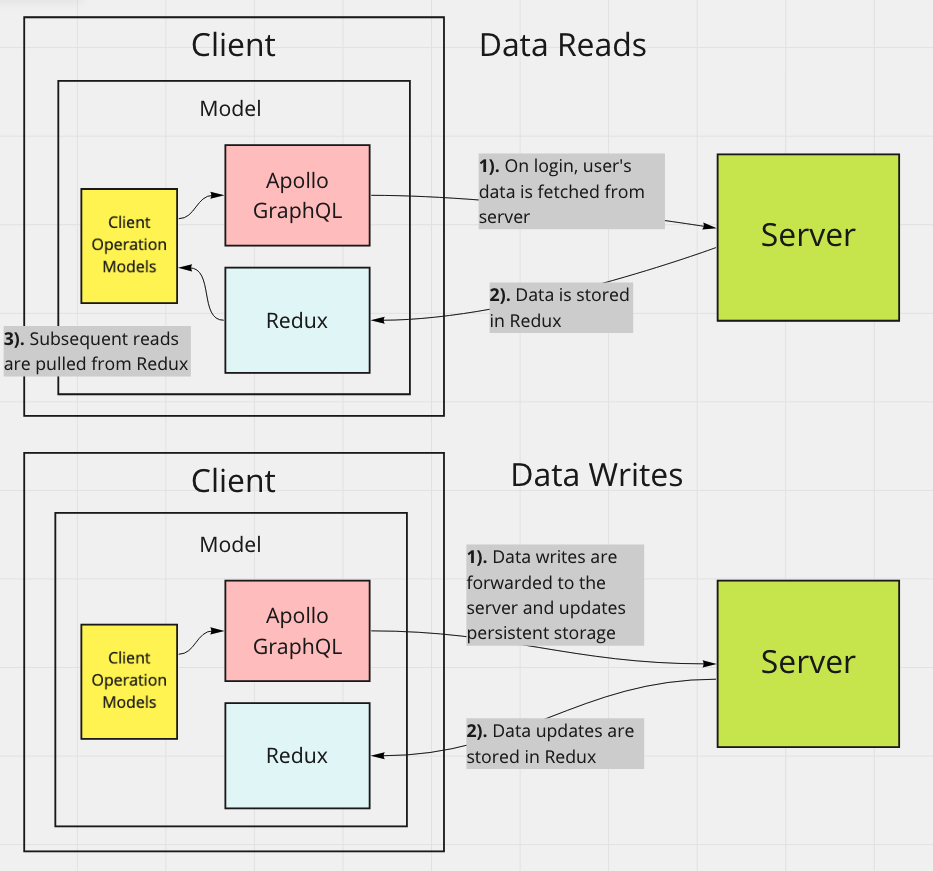
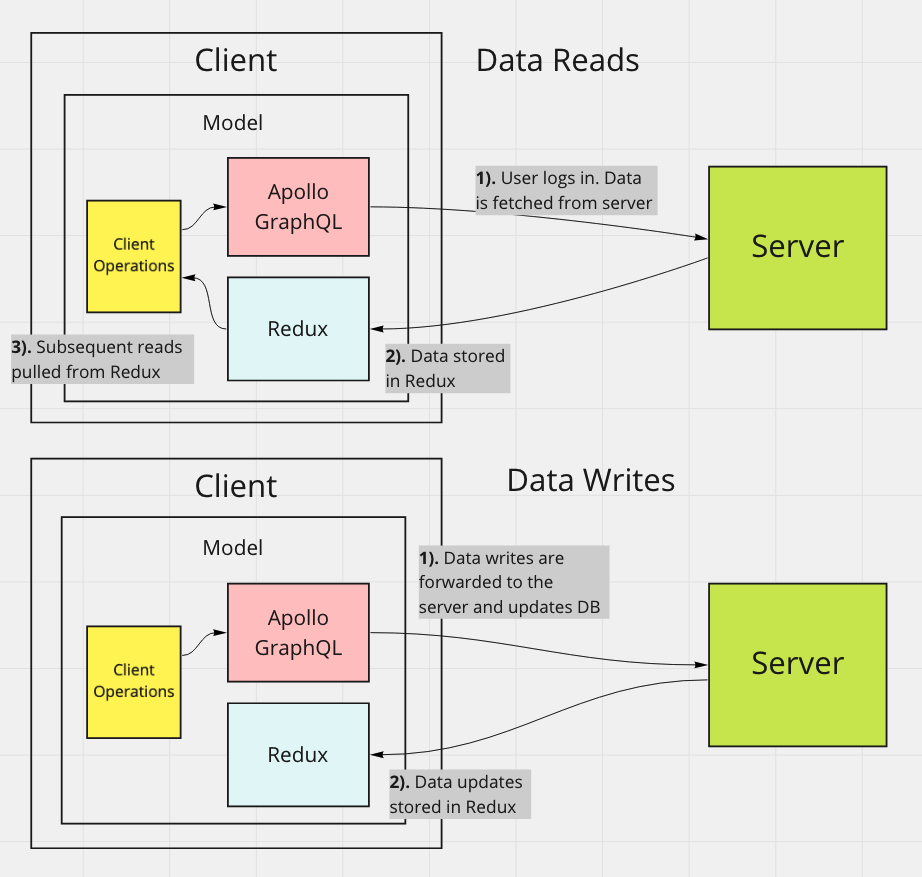
Tightens readme language

diff --git a/README.md b/README.md
@@ -36,9 +36,9 @@ The app uses Apollo GraphQL for the API layer while maintaining a local data cac
 
 <br>
 
-Handled data persistence with Apollo GraphQL and maintained a local cache of user's data with Redux for data reads.
+Handled data persistence with Apollo GraphQL and maintained a local cache of user data in Redux for data reads.
 - Nearly instantaneous performance for data reads.
-- Decreased load on the server.
+- Decreased load on the server based on app use.
 
 <br>
 
@@ -46,7 +46,10 @@ Handled data persistence with Apollo GraphQL and maintained a local cache of use
 
 ![Workout app Architecture](./readme-assets/client-data-strategy.png)
 
-Relying on Redux for data reads was a good fit for this app. User's read their own data and do not interact with other users. For future implementations, I would like to add a social component and use Redis for strategically caching shared data among users.
+### Reflections
+A Redux cache was a good fit for this app. Users read only their own data removing the risk of being out of sync. For the future, I would like to add a social component using Redis for caching shared data among users.
+
+Apollo GraphQL offers caching and keeping a Redux cache was not needed. I chose to use Redux to practice coordinating the two data stores and allow for optimistic updates in the future.
 
 </details>
 
@@ -59,7 +62,9 @@ Relying on Redux for data reads was a good fit for this app. User's read their o
 
 <br>
 
-Created separate abstractions for data and component UI, mimicking MVC architecture. Container components manage high level coordination of page tasks. Model layers handle implementation details of working with data.
+Created separate abstractions for data and component UI, mimicking MVC.
+- **Container components** - manage high-level coordination of page tasks.
+- **Model layers** - handle implementation details of working with data.
 
 <br>
 
@@ -69,21 +74,21 @@ Created separate abstractions for data and component UI, mimicking MVC architect
 
 #### Redux and GraphQL Models
 - Abstracts away vendor specific code for Apollo GraphQL and Redux
-- Houses client-side error handling for GraphQL queries and mutations
+- Houses client-side error handling for Apollo GraphQL
 - Uses React Hooks
 
 #### Client Operations Models
-- Manages implementation details of communication between GraphQL and Redux
+- Manages implementation details of communicating between GraphQL and Redux
 - Presents high level operations to the controllers
 - Uses React Hooks
 
 #### Container Components (Controllers)
-- Retrieves data from the URL
+- Retrieves data from URL
 - Calls model methods for setting and retrieving data
 - Manages local component state
 - Handles events
 - Handles redirects
-- Pulls in UI and passing data
+- Pulls in UI and passes data
 
 #### Presentation Components (View)
 - Presents the data and styled UI
@@ -92,7 +97,7 @@ Created separate abstractions for data and component UI, mimicking MVC architect
 
 #### Code Example
 
-The CreateWorkout container
+#### Create Workout container component / controller
 
 [See full code - right click to open in new tab](https://github.com/msolorio/workout_app_client/blob/main/src/pages/ShowWorkout/index.tsx)
 ```typescript
@@ -123,8 +128,8 @@ function CreateWorkout(): JSX.Element {
 ```
 
 ---
-
-`useCreateWorkout` method creates a workout with Apollo GraphQL, then stores in Redux. To integrate with Apollo hooks, I used hooks to manage model methods. The `useCreateWorkout` hook is called at the component's top level and returns a function that can be invoked in an event handler.
+#### Create Workout model method
+`useCreateWorkout` creates a workout with Apollo GraphQL and stores in Redux. Hooks are used to manage model methods. In this case the hook returns a method to be invoked in an event handler.
 
 [See full code - right click to open in new tab](https://github.com/msolorio/workout_app_client/blob/main/src/model/resources/Workout/index.ts)
 
@@ -153,15 +158,13 @@ useCreateWorkout() {
 
 ---
 
-### JWT for Authentication
+### Authentication with JWTs
 
 <details>
   <summary>Learn More</summary>
 
 Configured authentication with JWTs and HttpOnly Cookies.
-
-Security Considerations
-- Gaurded against XSS from accessing token. HttpOnly cookies are inaccessible with JavaScript.
+- Gaurded against XSS from accessing token.
 - Enabled stateless authentication with JWTs, eliminating the need to store session data server-side.
 - Revokes the HttpOnly cookie server-side upon logout.
 - Cookie is passed via HTTPS.
@@ -185,7 +188,7 @@ Security Considerations
 <br>
 
 Set up 5-model GraphQL API and enabling flexibility in traversing of data.
-- In the future I could add workout progress analysis features, where complex data fetching would be required. For example, a feature could allow a user to see their progress overall, per workout, or per exercise.
+- In the future I could add workout progress analysis features, where complex data fetching would be required. A feature could allow a user to see their progress overall, per workout, or per exercise.
 
 <br>
 
@@ -193,7 +196,7 @@ Set up 5-model GraphQL API and enabling flexibility in traversing of data.
 
 ![Workout App ERD](./readme-assets/workout-app-erd.png)
 
-The client can specify the exact data it needs.
+The client specifies the exact data it needs.
 
 ![GraphQL Request Response Example](./readme-assets/graph-ql.png)
 
@@ -213,10 +216,10 @@ Building the Apollo GraphQL server was intuitive and a joy, and it is exciting t
 
 <br>
 
-Decoupled the GraphQL API layer from data fetching layer allowing for easy repurposing of components. GraphQL could be switched out for a REST API, or the Prisma / Postgres model could be switched to accomodate a different database.
-
-#### Models
-
+Decoupled the GraphQL API layer from data fetching layer
+- Allowing for easy repurposing of components.
+- GraphQL could be switched out for a REST API.
+- Prisma / Postgres model could be switched to accomodate a different database.
 
 <br>
 
@@ -226,28 +229,9 @@ Decoupled the GraphQL API layer from data fetching layer allowing for easy repur
 
 #### Code Example
 
-#### The GraphQL resolver for creating a workout
-- Retrieves data from URL
-- Calls model methods
-- handles return value
-```js
-...
-  createWorkout: async (parent, args, context) => {
-    const modelArgs = {
-      ...args,
-      userId: context.userId
-    }
-
-    const { createdWorkout } = await Workout.createWorkout(modelArgs)
-
-    return createdWorkout
-  },
-...
-```
-
-#### The Model method for creating a workout
-- Abstracts away vendor specific code for Prisma
-- Manages multiple DB queries involved with fullfilling single request
+The Model method for creating a workout
+- Abstracts away vendor specific code for Prisma.
+- Manages multiple DB interactions involved with fullfilling single mutation.
 
 **Note:** A closure wraps the model method and grant it error handling with `createHandledQuery`.
 ```js
@@ -392,6 +376,3 @@ This is an ongoing project with critical and non-critical features still to be b
 - **Use ES Modules on server** - allow importing of TypeScript interfaces
 - **Use non-hook GraphQL queries/mutations on client** - simplify tiered model methods
 - **Add a social component to the app** - allow users to share workouts, message one another, and find users based on location. Would use WebSockets for real-time and Redis for strategically caching shared user data.
-
-## Notes
-Apollo GraphQL offers caching and keeping a local cache in Redux was not entirely needed. I chose to implement Redux to practice coordinating the two data stores and to allow for optimistic updates as a future feature. With optimistic updates a user would create/update records client-side without waiting for server response.
